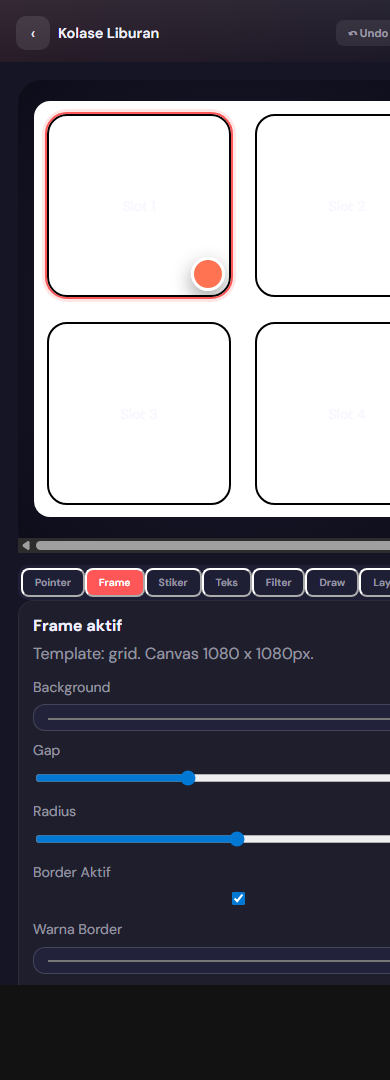
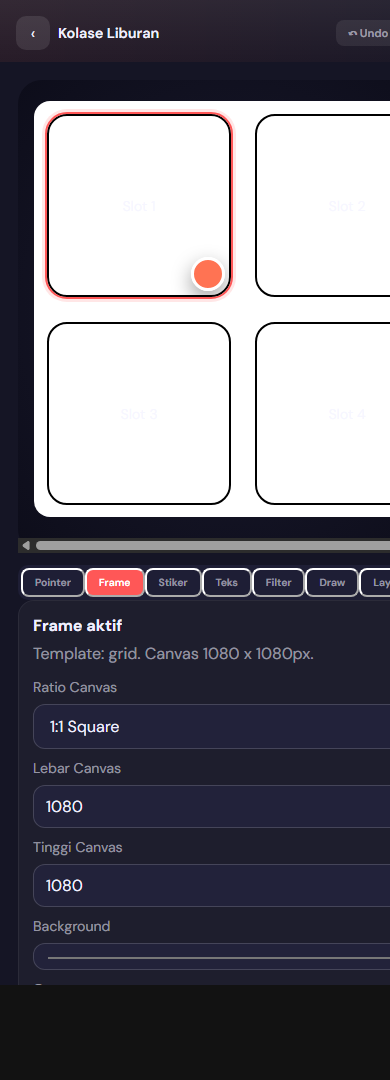
fix mobile bug 2

Changed region(s): [[0.0615, 0.6111, 1.0, 0.825], [0.0923, 0.8556, 1.0, 0.9167], [0.5846, 0.825, 0.6462, 0.8556]]

diff --git a/app.js b/app.js
@@ -686,17 +686,7 @@ function syncInputs() {
   frameBorderStyleInput.value = state.frameBorder.style || "solid";
   canvasWidthInput.value = String(state.canvasWidth);
   canvasHeightInput.value = String(state.canvasHeight);
-  const ratioKey = `${state.canvasWidth}:${state.canvasHeight}`;
-  const normalizedRatio = state.canvasWidth === state.canvasHeight
-    ? "1:1"
-    : ratioKey === "1080:1350"
-      ? "4:5"
-      : ratioKey === "1080:1920"
-        ? "9:16"
-        : ratioKey === "1600:900"
-          ? "16:9"
-          : "custom";
-  canvasRatioInput.value = normalizedRatio;
+  canvasRatioInput.value = currentCanvasRatioKey();
   slotWidthInput.value = String(Math.round((currentSlot?.width || 0.5) * 100));
   slotHeightInput.value = String(Math.round((currentSlot?.height || 0.5) * 100));
   drawToggle.checked = state.drawingEnabled;
@@ -1395,6 +1385,15 @@ function renderMobileToolPanel() {
         <strong>Frame aktif</strong>
         <p>Template: ${state.templateId}. Canvas ${state.canvasWidth} x ${state.canvasHeight}px.</p>
         <div class="mobile-tool-grid">
+          <label class="field"><span>Ratio Canvas</span><select id="mobileCanvasRatio">
+            <option value="custom" ${currentCanvasRatioKey() === "custom" ? "selected" : ""}>Custom</option>
+            <option value="1:1" ${currentCanvasRatioKey() === "1:1" ? "selected" : ""}>1:1 Square</option>
+            <option value="4:5" ${currentCanvasRatioKey() === "4:5" ? "selected" : ""}>4:5 Portrait</option>
+            <option value="9:16" ${currentCanvasRatioKey() === "9:16" ? "selected" : ""}>9:16 Story</option>
+            <option value="16:9" ${currentCanvasRatioKey() === "16:9" ? "selected" : ""}>16:9 Landscape</option>
+          </select></label>
+          <label class="field"><span>Lebar Canvas</span><input id="mobileCanvasWidth" type="number" min="320" max="3000" step="10" value="${state.canvasWidth}" /></label>
+          <label class="field"><span>Tinggi Canvas</span><input id="mobileCanvasHeight" type="number" min="320" max="3000" step="10" value="${state.canvasHeight}" /></label>
           <label class="field"><span>Background</span><input id="mobileBgColor" type="color" value="${state.backgroundColor}" /></label>
           <label class="field"><span>Gap</span><input id="mobileGapInput" type="range" min="0" max="32" step="1" value="${state.gap}" /></label>
           <label class="field"><span>Radius</span><input id="mobileRadiusInput" type="range" min="0" max="40" step="1" value="${state.radius}" /></label>
@@ -1736,6 +1735,30 @@ function renderMobileToolPanel() {
   const updateMobileState = (mutator, options = {}) => {
     setState(mutator, { trackHistory: false, renderMode: "surfaces", ...options });
   };
+
+  bindInput("#mobileCanvasRatio", "change", (event) => {
+    updateMobileState((draft) => {
+      applyCanvasRatio(event.target.value, draft);
+    });
+    const widthNode = mobileControls.querySelector("#mobileCanvasWidth");
+    const heightNode = mobileControls.querySelector("#mobileCanvasHeight");
+    if (widthNode) widthNode.value = String(state.canvasWidth);
+    if (heightNode) heightNode.value = String(state.canvasHeight);
+  });
+  bindInput("#mobileCanvasWidth", "input", (event) => {
+    updateMobileState((draft) => {
+      draft.canvasWidth = clamp(Number(event.target.value) || draft.canvasWidth, 320, 3000);
+    });
+    const ratioNode = mobileControls.querySelector("#mobileCanvasRatio");
+    if (ratioNode) ratioNode.value = currentCanvasRatioKey();
+  });
+  bindInput("#mobileCanvasHeight", "input", (event) => {
+    updateMobileState((draft) => {
+      draft.canvasHeight = clamp(Number(event.target.value) || draft.canvasHeight, 320, 3000);
+    });
+    const ratioNode = mobileControls.querySelector("#mobileCanvasRatio");
+    if (ratioNode) ratioNode.value = currentCanvasRatioKey();
+  });
 
   bindInput("#mobileBgColor", "input", (event) => {
     updateMobileState((draft) => {
@@ -2867,6 +2890,15 @@ function applyCanvasRatio(value, draft = state) {
   [draft.canvasWidth, draft.canvasHeight] = next;
 }
 
+function currentCanvasRatioKey() {
+  const ratioKey = `${state.canvasWidth}:${state.canvasHeight}`;
+  if (state.canvasWidth === state.canvasHeight) return "1:1";
+  if (ratioKey === "1080:1350") return "4:5";
+  if (ratioKey === "1080:1920") return "9:16";
+  if (ratioKey === "1600:900") return "16:9";
+  return "custom";
+}
+
 function autoLayoutUploadedPhotos(photoEntries, draft = state) {
   if (!photoEntries.length) return;
   draft.templateId = `auto-${photoEntries.length}`;
@@ -3975,6 +4007,11 @@ function setupMobilePullToRefresh() {
   window.addEventListener("touchcancel", () => { pull = null; }, { passive: true });
 }
 
+function isMobileControlEditing() {
+  const active = document.activeElement;
+  return Boolean(active?.closest?.("#mobileControls") && active.matches?.("input, textarea, select"));
+}
+
 function setupEventListeners() {
   window.addEventListener("pointermove", (event) => {
     if (activeRightbarResize) {
@@ -4510,7 +4547,13 @@ function setupEventListeners() {
     deferredPrompt = null;
     installAppButton.classList.add("hidden");
   });
-  window.addEventListener("resize", renderAll);
+  window.addEventListener("resize", () => {
+    if (matchMedia("(max-width: 760px)").matches && isMobileControlEditing()) {
+      window.requestAnimationFrame(renderEditorSurfacesOnly);
+      return;
+    }
+    renderAll();
+  });
 }
 
 function registerServiceWorker() {

diff --git a/android-wrapper/app/src/main/assets/www/index.html b/android-wrapper/app/src/main/assets/www/index.html
@@ -16,7 +16,7 @@
     <link rel="icon" type="image/svg+xml" href="/assets/icon-7X88pjyY.svg" />
     <link rel="apple-touch-icon" href="/assets/icon-192-DxdDlCEF.svg" />
     <title>FunPic</title>
-    <script type="module" crossorigin src="/assets/index-D9N_zA4b.js"></script>
+    <script type="module" crossorigin src="/assets/index-BfeoUHiu.js"></script>
     <link rel="stylesheet" crossorigin href="/assets/index-BeKZrMSN.css">
   </head>
   <body>